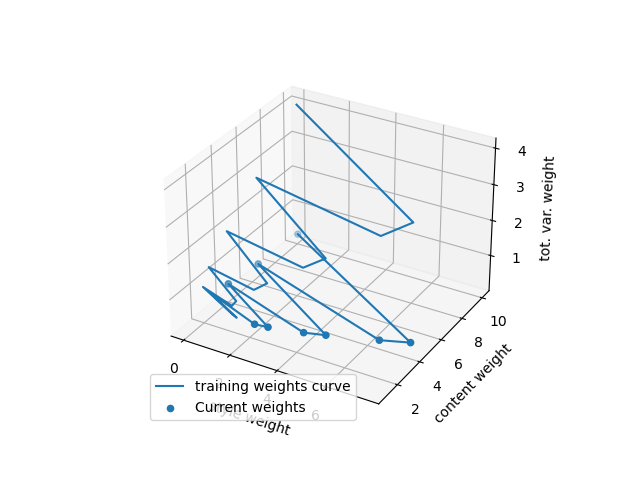
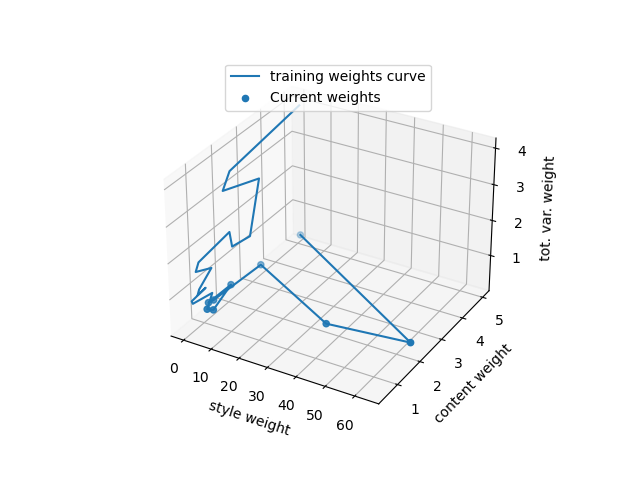
for real this time input gif

diff --git a/vgg19_style_transfer_2.py b/vgg19_style_transfer_2.py
@@ -1,11 +1,12 @@
+# Author Eduardo Ortega
 import tensorflow as tf
 import numpy as np
+import pandas as pd
 import PIL.Image
-import create_gif_params as param
-x = param.x
-y = param.y
-z = param.z
+import argparse
 
+parser = argparse.ArgumentParser(description='IDX')
+parser.add_argument('--idx', type=str, help="IDX of list")
 
 def tensor_to_image(tensor):
     tensor = tensor * 255
@@ -166,29 +167,30 @@ def style_transfer_image(
         img.save(f"{save_name}-{n}.png")
 
 def convert_parametric(x, y, z):
-    sw_l = [1**s for s in x]
-    cw_l = [1**s for s in y]
+    sw_l = [1.01**s for s in x]
+    cw_l = [1.01**s for s in y]
     tvw_l = [abs(10*s) for s in z]
     return sw_l, cw_l, tvw_l
 
-def sim(gif_weights=True):
-    #print("Num GPUs Available: ", len(tf.config.list_physical_devices('GPU')))
-    #from tensorflow.python.client import device_lib
-    #print(device_lib.list_local_devices())
-    #sw_l, cw_l, tvw_l = convert_parametric(x, y, z)
-    if gif_weights:
-       print("MAKING GIF OF THE ACTUAL INPUTS") 
-    for style in ["art.jpg", "scream.jpg"]:
-        suffix = style.split(".")[0]
-        style_transfer_image("images/content/city.jpg", 
-                        f"images/style/{style}", 
-                        save_name=f"out/blend-{suffix}",
-                        style_weight=1e-3, 
-                        content_weight=2e2, 
-                        total_variation_weight=30, steps_per_epoch=70)
+def sim(cw, sw, tvw, idx, content_path, style_path):
+    suffix = style_path.split('/')[-1].split('.')[0]
+    style_transfer_image(content_path, 
+                        style_path, 
+                        save_name=f"out/blend-param{idx}-{suffix}",
+                        style_weight=sw, 
+                        content_weight=cw, 
+                        total_variation_weight=tvw, 
+                        steps_per_epoch=70)
 
 def main():
-    sim()
+    df = pd.read_csv('parametric_xyz.csv')
+    x, y, z = df['x'], df['y'], df['z']
+    sw, cw, tvw = convert_parametric(x, y, z)
+    content_path = 'images/content/city.jpg'
+    style_path = 'images/style/scream.jpg'
+    args = parser.parse_args()
+    i = int(args.idx)
+    sim(cw[i], sw[i], tvw[i], i, content_path, style_path)
 
 if __name__=="__main__":
     main()

diff --git a/old_automation/vgg19_style_transfer.py b/old_automation/vgg19_style_transfer.py
@@ -1,11 +1,16 @@
+# Author Eduardo Ortega
 import tensorflow as tf
 import numpy as np
 import PIL.Image
-import create_gif_params as param
-x = param.x
-y = param.y
-z = param.z
+import argparse
 
+parser = argparse.ArgumentParser(description="inputs for vgg19 style transfer")
+
+parser.add_argument('--content', type=str, help='content path')
+parser.add_argument('--style', type=str, help='style path')
+parser.add_argument('--sw', type=str, help='style weight')
+parser.add_argument('--cw', type=str, help='content weight')
+parser.add_argument('--tvw', type=str, help='total variation weight')
 
 def tensor_to_image(tensor):
     tensor = tensor * 255
@@ -171,24 +176,25 @@ def convert_parametric(x, y, z):
     tvw_l = [abs(10*s) for s in z]
     return sw_l, cw_l, tvw_l
 
-def sim(gif_weights=True):
-    #print("Num GPUs Available: ", len(tf.config.list_physical_devices('GPU')))
-    #from tensorflow.python.client import device_lib
-    #print(device_lib.list_local_devices())
-    #sw_l, cw_l, tvw_l = convert_parametric(x, y, z)
-    if gif_weights:
-       print("MAKING GIF OF THE ACTUAL INPUTS") 
-    for style in ["art.jpg", "scream.jpg"]:
-        suffix = style.split(".")[0]
-        style_transfer_image("images/content/city.jpg", 
-                        f"images/style/{style}", 
+def sim(args):
+    content_path = args.content
+    style_path = args.style
+    suffix = style_path.split('/')[-1].split('.')[0]
+    print(args.sw, args.cw, args.tvw)
+    sw = float(args.sw)
+    cw = float(args.cw)
+    tvw = float(args.tvw)
+    style_transfer_image(content_path, 
+                        style_path, 
                         save_name=f"out/blend-{suffix}",
-                        style_weight=1e-3, 
-                        content_weight=2e2, 
-                        total_variation_weight=30, steps_per_epoch=70)
+                        style_weight=sw, 
+                        content_weight=cw, 
+                        total_variation_weight=tvw, 
+                        steps_per_epoch=70)
 
 def main():
-    sim()
+    args = parser.parse_args()
+    sim(args)
 
 if __name__=="__main__":
     main()

diff --git a/old_automation/launch_vgg19_style_transfer.py b/old_automation/launch_vgg19_style_transfer.py
@@ -1,0 +1,30 @@
+import tensorflow as tf
+import numpy as np
+import pandas as pd
+import subprocess
+import PIL.Image
+
+
+def convert_parametric(x, y, z):
+    sw_l = [1**s for s in x]
+    cw_l = [1**s for s in y]
+    tvw_l = [abs(10*s) for s in z]
+    return sw_l, cw_l, tvw_l
+
+def sim(content_path, gif_weights=True):
+    df = pd.read_csv('parametric_xyz.csv')
+    sw_l, cw_l, tvw_l = convert_parametric(df['x'], df['y'], df['z'])
+    if gif_weights:
+       print("MAKING GIF OF THE ACTUAL INPUTS") 
+    for style in ["art.jpg", "scream.jpg"]:
+        cmd = f"python vgg19_style_transfer.py --content {content_path} --style images/style/{style} --cw {cw_l[0]} --sw {sw_l[0]} --tvw {tvw_l[0]} &"
+        print("LAUNCHING THE FOLLOWING")
+        print(cmd)
+        print("============================")
+        subprocess.Popen(cmd, shell=True, stdout=subprocess.PIPE)
+
+def main():
+    sim("images/content/city.jpg")
+
+if __name__=="__main__":
+    main()

diff --git a/create_gif_params_inputs.py b/create_gif_params_inputs.py
@@ -9,9 +9,9 @@ from PIL import Image
 
 
 def convert_parametric(x, y, z):
-    sw_l = [1.01**s for s in x]
-    cw_l = [1.01**s for s in y]
-    tvw_l = [abs(10*s) for s in z]
+    sw_l = [(3**s) for s in x]
+    cw_l = [abs(s) for s in y]
+    tvw_l = [2**s for s in z]
     return sw_l, cw_l, tvw_l
 
 # Prepare inputs
@@ -26,12 +26,12 @@ for s in range(1,len(x)):
     s_x = sw[0:s]
     s_y = cw[0:s]
     s_z = tvw[0:s]
-    ax.plot(x, y, z, label='training weights curve')
+    ax.plot(sw, cw, tvw, label='training weights curve')
     ax.scatter(s_x, s_y, s_z, label='Current weights')
     ax.set_xlabel('style weight')
     ax.set_ylabel('content weight')
     ax.set_zlabel('tot. var. weight')
-    ax.legend()
+    ax.legend(loc='upper center')
     plt.savefig(f'PARAM/input_{s}.png')
 
 files = glob.glob(r"PARAM/input_*.png")
